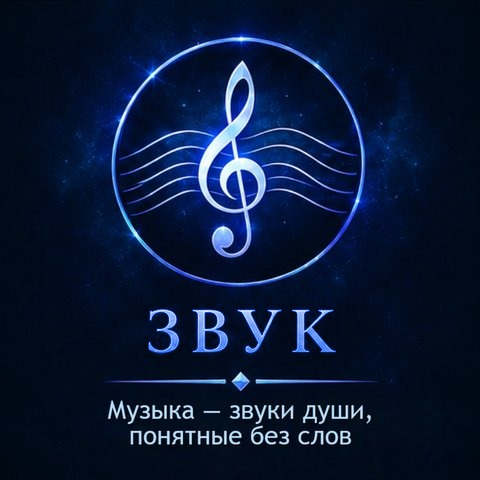
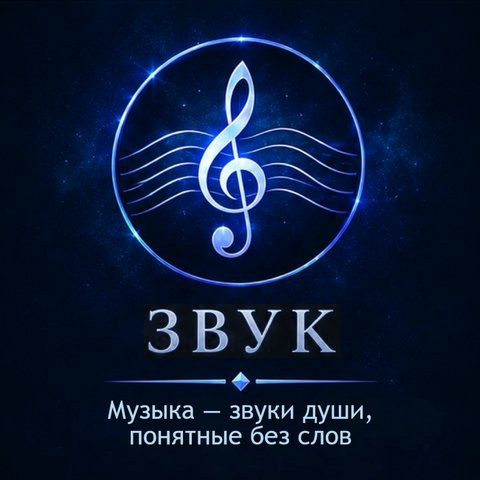
Darken ЗВУК badge text, remove download option from track players
Recolored the badge text using the darker navy already present in
its own shadow tone (sampled from the original image) instead of the
lighter #5c8efa — client felt that was too light.

Added controlsList="nodownload" to every <audio> element across the
5 artist pages, per client's request to route listeners to the
external platforms for full downloads instead.

Changed region(s): [[0.4062, 0.625, 0.7188, 0.75], [0.3125, 0.625, 0.375, 0.75]]

diff --git a/erik-hvat-ru.html b/erik-hvat-ru.html
@@ -56,63 +56,63 @@
       <ul class="track-list">
         <li>
           <span class="track-title">Демон в тени</span>
-          <audio controls preload="none" src="audio/erik-hvat-ru/demon-v-teni.mp3"></audio>
+          <audio controls controlsList="nodownload" preload="none" src="audio/erik-hvat-ru/demon-v-teni.mp3"></audio>
         </li>
         <li>
           <span class="track-title">Истлевшие сюжеты</span>
-          <audio controls preload="none" src="audio/erik-hvat-ru/istlevshie-syuzhety.mp3"></audio>
+          <audio controls controlsList="nodownload" preload="none" src="audio/erik-hvat-ru/istlevshie-syuzhety.mp3"></audio>
         </li>
         <li>
           <span class="track-title">Кинотеатр</span>
-          <audio controls preload="none" src="audio/erik-hvat-ru/kinoteatr.mp3"></audio>
+          <audio controls controlsList="nodownload" preload="none" src="audio/erik-hvat-ru/kinoteatr.mp3"></audio>
         </li>
         <li>
           <span class="track-title">Летим</span>
-          <audio controls preload="none" src="audio/erik-hvat-ru/letim.mp3"></audio>
+          <audio controls controlsList="nodownload" preload="none" src="audio/erik-hvat-ru/letim.mp3"></audio>
         </li>
         <li>
           <span class="track-title">Луч</span>
-          <audio controls preload="none" src="audio/erik-hvat-ru/luch.wav"></audio>
+          <audio controls controlsList="nodownload" preload="none" src="audio/erik-hvat-ru/luch.wav"></audio>
         </li>
         <li>
           <span class="track-title">Мой любимый человек</span>
-          <audio controls preload="none" src="audio/erik-hvat-ru/moy-lyubimyy-chelovek.mp3"></audio>
+          <audio controls controlsList="nodownload" preload="none" src="audio/erik-hvat-ru/moy-lyubimyy-chelovek.mp3"></audio>
         </li>
         <li>
           <span class="track-title">Ну и пусть</span>
-          <audio controls preload="none" src="audio/erik-hvat-ru/nu-i-pust.mp3"></audio>
+          <audio controls controlsList="nodownload" preload="none" src="audio/erik-hvat-ru/nu-i-pust.mp3"></audio>
         </li>
         <li>
           <span class="track-title">Питерская</span>
-          <audio controls preload="none" src="audio/erik-hvat-ru/piterskaya.mp3"></audio>
+          <audio controls controlsList="nodownload" preload="none" src="audio/erik-hvat-ru/piterskaya.mp3"></audio>
         </li>
         <li>
           <span class="track-title">Прощай, Уфа</span>
-          <audio controls preload="none" src="audio/erik-hvat-ru/proschay-ufa.mp3"></audio>
+          <audio controls controlsList="nodownload" preload="none" src="audio/erik-hvat-ru/proschay-ufa.mp3"></audio>
         </li>
         <li>
           <span class="track-title">Сила глубин</span>
-          <audio controls preload="none" src="audio/erik-hvat-ru/sila-glubin.mp3"></audio>
+          <audio controls controlsList="nodownload" preload="none" src="audio/erik-hvat-ru/sila-glubin.mp3"></audio>
         </li>
         <li>
           <span class="track-title">Скорпион</span>
-          <audio controls preload="none" src="audio/erik-hvat-ru/skorpion.wav"></audio>
+          <audio controls controlsList="nodownload" preload="none" src="audio/erik-hvat-ru/skorpion.wav"></audio>
         </li>
         <li>
           <span class="track-title">Солнечный край</span>
-          <audio controls preload="none" src="audio/erik-hvat-ru/solnechnyy-kray.mp3"></audio>
+          <audio controls controlsList="nodownload" preload="none" src="audio/erik-hvat-ru/solnechnyy-kray.mp3"></audio>
         </li>
         <li>
           <span class="track-title">Тень в пустоте</span>
-          <audio controls preload="none" src="audio/erik-hvat-ru/ten-v-pustote.mp3"></audio>
+          <audio controls controlsList="nodownload" preload="none" src="audio/erik-hvat-ru/ten-v-pustote.mp3"></audio>
         </li>
         <li>
           <span class="track-title">Тяжёлые шаги</span>
-          <audio controls preload="none" src="audio/erik-hvat-ru/tyazhelye-shagi.mp3"></audio>
+          <audio controls controlsList="nodownload" preload="none" src="audio/erik-hvat-ru/tyazhelye-shagi.mp3"></audio>
         </li>
         <li>
           <span class="track-title">Я смотрю</span>
-          <audio controls preload="none" src="audio/erik-hvat-ru/ya-smotryu.wav"></audio>
+          <audio controls controlsList="nodownload" preload="none" src="audio/erik-hvat-ru/ya-smotryu.wav"></audio>
         </li>
       </ul>
       <p style="margin-top:20px;font-size:13px;color:var(--ink-soft)">На все композиции оформлены авторские права на тексты, коммерческие лицензии на музыку и свидетельства об авторском праве на произведение целиком — материалы предоставляются по запросу.</p>

diff --git a/ancestral-spirit.html b/ancestral-spirit.html
@@ -56,23 +56,23 @@
       <ul class="track-list">
         <li>
           <span class="track-title">Железное полотно — Iron Track</span>
-          <audio controls preload="none" src="audio/ancestral-spirit/zheleznoe-polotno-iron-track.mp3"></audio>
+          <audio controls controlsList="nodownload" preload="none" src="audio/ancestral-spirit/zheleznoe-polotno-iron-track.mp3"></audio>
         </li>
         <li>
           <span class="track-title">Могикане восстают — The Mohicans are rising</span>
-          <audio controls preload="none" src="audio/ancestral-spirit/mogikane-vosstayut-the-mohicans-are-rising.mp3"></audio>
+          <audio controls controlsList="nodownload" preload="none" src="audio/ancestral-spirit/mogikane-vosstayut-the-mohicans-are-rising.mp3"></audio>
         </li>
         <li>
           <span class="track-title">Одинокая душа — A lonely soul</span>
-          <audio controls preload="none" src="audio/ancestral-spirit/odinokaya-dusha-a-lonely-soul.mp3"></audio>
+          <audio controls controlsList="nodownload" preload="none" src="audio/ancestral-spirit/odinokaya-dusha-a-lonely-soul.mp3"></audio>
         </li>
         <li>
           <span class="track-title">Осенняя прихоть — Autumn Caprice</span>
-          <audio controls preload="none" src="audio/ancestral-spirit/osennyaya-prihot-autumn-caprice.mp3"></audio>
+          <audio controls controlsList="nodownload" preload="none" src="audio/ancestral-spirit/osennyaya-prihot-autumn-caprice.mp3"></audio>
         </li>
         <li>
           <span class="track-title">Принцесса Матоака — Princess Matoaka</span>
-          <audio controls preload="none" src="audio/ancestral-spirit/printsessa-matoaka-princess-matoaka.mp3"></audio>
+          <audio controls controlsList="nodownload" preload="none" src="audio/ancestral-spirit/printsessa-matoaka-princess-matoaka.mp3"></audio>
         </li>
       </ul>
       <p style="margin-top:20px;font-size:13px;color:var(--ink-soft)">На все композиции оформлены авторские права на тексты, коммерческие лицензии на музыку и свидетельства об авторском праве на произведение целиком — материалы предоставляются по запросу.</p>

diff --git a/nezhdanny-motiv.html b/nezhdanny-motiv.html
@@ -56,23 +56,23 @@
       <ul class="track-list">
         <li>
           <span class="track-title">Ветер наизнанку</span>
-          <audio controls preload="none" src="audio/nezhdanny-motiv/veter-naiznanku.mp3"></audio>
+          <audio controls controlsList="nodownload" preload="none" src="audio/nezhdanny-motiv/veter-naiznanku.mp3"></audio>
         </li>
         <li>
           <span class="track-title">Космогония</span>
-          <audio controls preload="none" src="audio/nezhdanny-motiv/kosmogoniya.mp3"></audio>
+          <audio controls controlsList="nodownload" preload="none" src="audio/nezhdanny-motiv/kosmogoniya.mp3"></audio>
         </li>
         <li>
           <span class="track-title">Поездка на юг</span>
-          <audio controls preload="none" src="audio/nezhdanny-motiv/poezdka-na-yug.mp3"></audio>
+          <audio controls controlsList="nodownload" preload="none" src="audio/nezhdanny-motiv/poezdka-na-yug.mp3"></audio>
         </li>
         <li>
           <span class="track-title">Сигналы бедствия</span>
-          <audio controls preload="none" src="audio/nezhdanny-motiv/signaly-bedstviya.mp3"></audio>
+          <audio controls controlsList="nodownload" preload="none" src="audio/nezhdanny-motiv/signaly-bedstviya.mp3"></audio>
         </li>
         <li>
           <span class="track-title">Ускорение</span>
-          <audio controls preload="none" src="audio/nezhdanny-motiv/uskorenie.mp3"></audio>
+          <audio controls controlsList="nodownload" preload="none" src="audio/nezhdanny-motiv/uskorenie.mp3"></audio>
         </li>
       </ul>
       <p style="margin-top:20px;font-size:13px;color:var(--ink-soft)">На все композиции оформлены авторские права на тексты, коммерческие лицензии на музыку и свидетельства об авторском праве на произведение целиком — материалы предоставляются по запросу.</p>

diff --git a/erik-hvat-en.html b/erik-hvat-en.html
@@ -56,23 +56,23 @@
       <ul class="track-list">
         <li>
           <span class="track-title">Cinema</span>
-          <audio controls preload="none" src="audio/erik-hvat-en/cinema.mp3"></audio>
+          <audio controls controlsList="nodownload" preload="none" src="audio/erik-hvat-en/cinema.mp3"></audio>
         </li>
         <li>
           <span class="track-title">I would love to sail to Australia</span>
-          <audio controls preload="none" src="audio/erik-hvat-en/i-would-love-to-sail-to-australia.mp3"></audio>
+          <audio controls controlsList="nodownload" preload="none" src="audio/erik-hvat-en/i-would-love-to-sail-to-australia.mp3"></audio>
         </li>
         <li>
           <span class="track-title">Ships of the future</span>
-          <audio controls preload="none" src="audio/erik-hvat-en/ships-of-the-future.mp3"></audio>
+          <audio controls controlsList="nodownload" preload="none" src="audio/erik-hvat-en/ships-of-the-future.mp3"></audio>
         </li>
         <li>
           <span class="track-title">The Oath</span>
-          <audio controls preload="none" src="audio/erik-hvat-en/the-oath.mp3"></audio>
+          <audio controls controlsList="nodownload" preload="none" src="audio/erik-hvat-en/the-oath.mp3"></audio>
         </li>
         <li>
           <span class="track-title">Wings of madness</span>
-          <audio controls preload="none" src="audio/erik-hvat-en/wings-of-madness.mp3"></audio>
+          <audio controls controlsList="nodownload" preload="none" src="audio/erik-hvat-en/wings-of-madness.mp3"></audio>
         </li>
       </ul>
       <p style="margin-top:20px;font-size:13px;color:var(--ink-soft)">На все композиции оформлены авторские права на тексты, коммерческие лицензии на музыку и свидетельства об авторском праве на произведение целиком — материалы предоставляются по запросу.</p>

diff --git a/irek-tu.html b/irek-tu.html
@@ -56,23 +56,23 @@
       <ul class="track-list">
         <li>
           <span class="track-title">Видишь</span>
-          <audio controls preload="none" src="audio/irek-tu/vidish.mp3"></audio>
+          <audio controls controlsList="nodownload" preload="none" src="audio/irek-tu/vidish.mp3"></audio>
         </li>
         <li>
           <span class="track-title">Наш мир</span>
-          <audio controls preload="none" src="audio/irek-tu/nash-mir.mp3"></audio>
+          <audio controls controlsList="nodownload" preload="none" src="audio/irek-tu/nash-mir.mp3"></audio>
         </li>
         <li>
           <span class="track-title">Пока ты рядом</span>
-          <audio controls preload="none" src="audio/irek-tu/poka-ty-ryadom.wav"></audio>
+          <audio controls controlsList="nodownload" preload="none" src="audio/irek-tu/poka-ty-ryadom.wav"></audio>
         </li>
         <li>
           <span class="track-title">Самарский пульс</span>
-          <audio controls preload="none" src="audio/irek-tu/samarskiy-puls.mp3"></audio>
+          <audio controls controlsList="nodownload" preload="none" src="audio/irek-tu/samarskiy-puls.mp3"></audio>
         </li>
         <li>
           <span class="track-title">Я хочу жить проще</span>
-          <audio controls preload="none" src="audio/irek-tu/ya-hochu-zhit-prosche.mp3"></audio>
+          <audio controls controlsList="nodownload" preload="none" src="audio/irek-tu/ya-hochu-zhit-prosche.mp3"></audio>
         </li>
       </ul>
       <p style="margin-top:20px;font-size:13px;color:var(--ink-soft)">На все композиции оформлены авторские права на тексты, коммерческие лицензии на музыку и свидетельства об авторском праве на произведение целиком — материалы предоставляются по запросу.</p>
